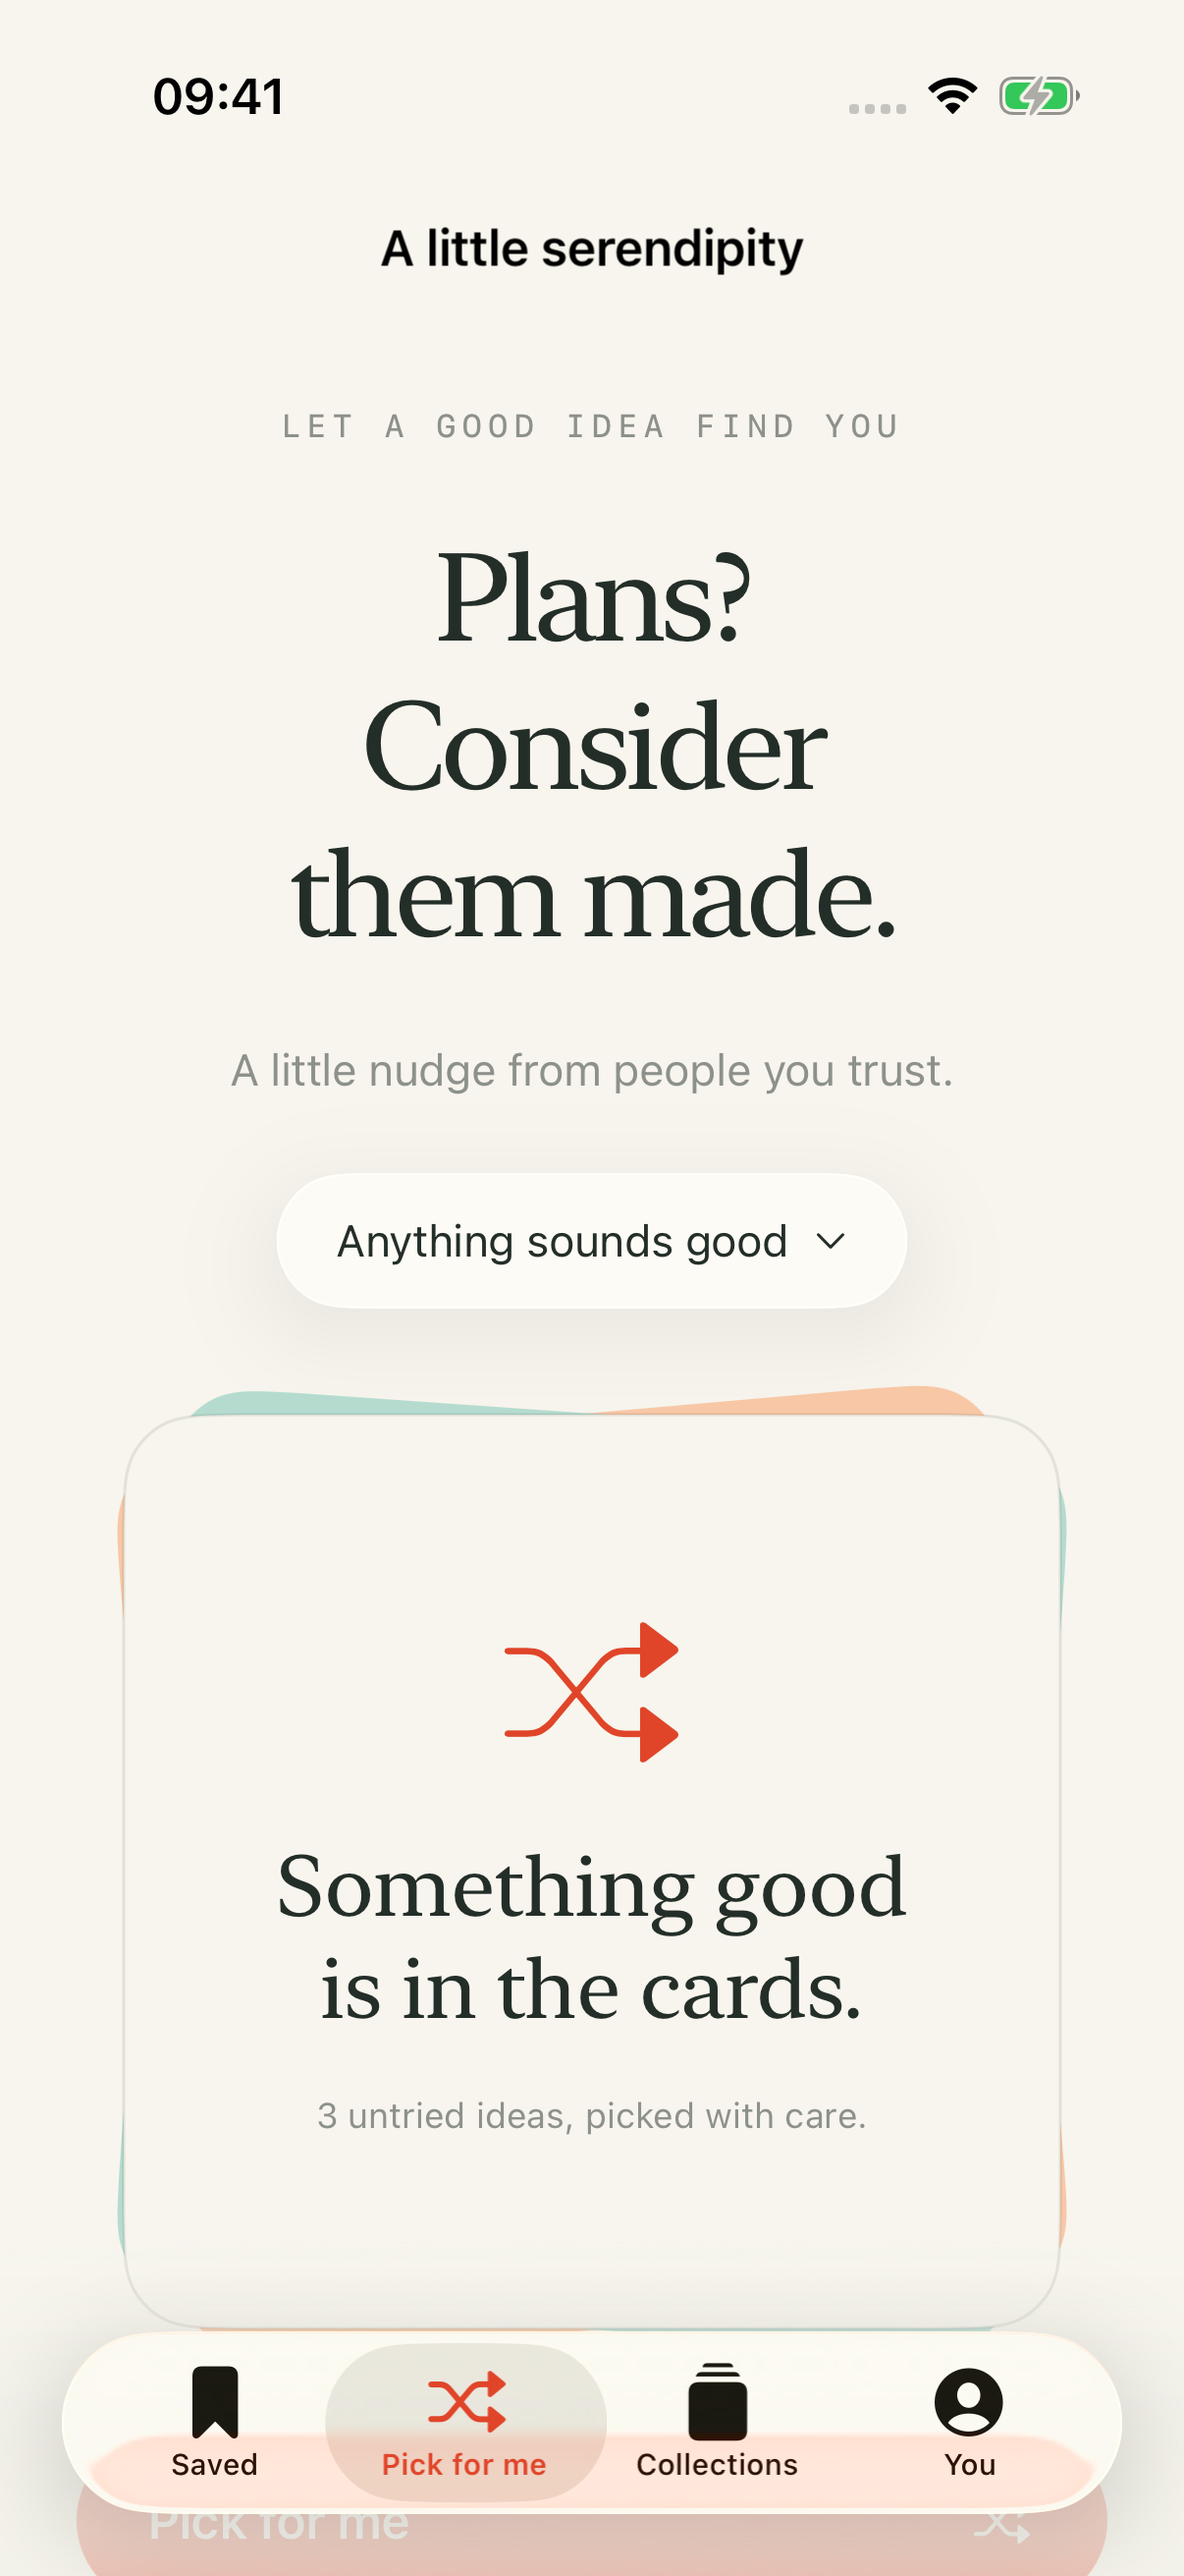
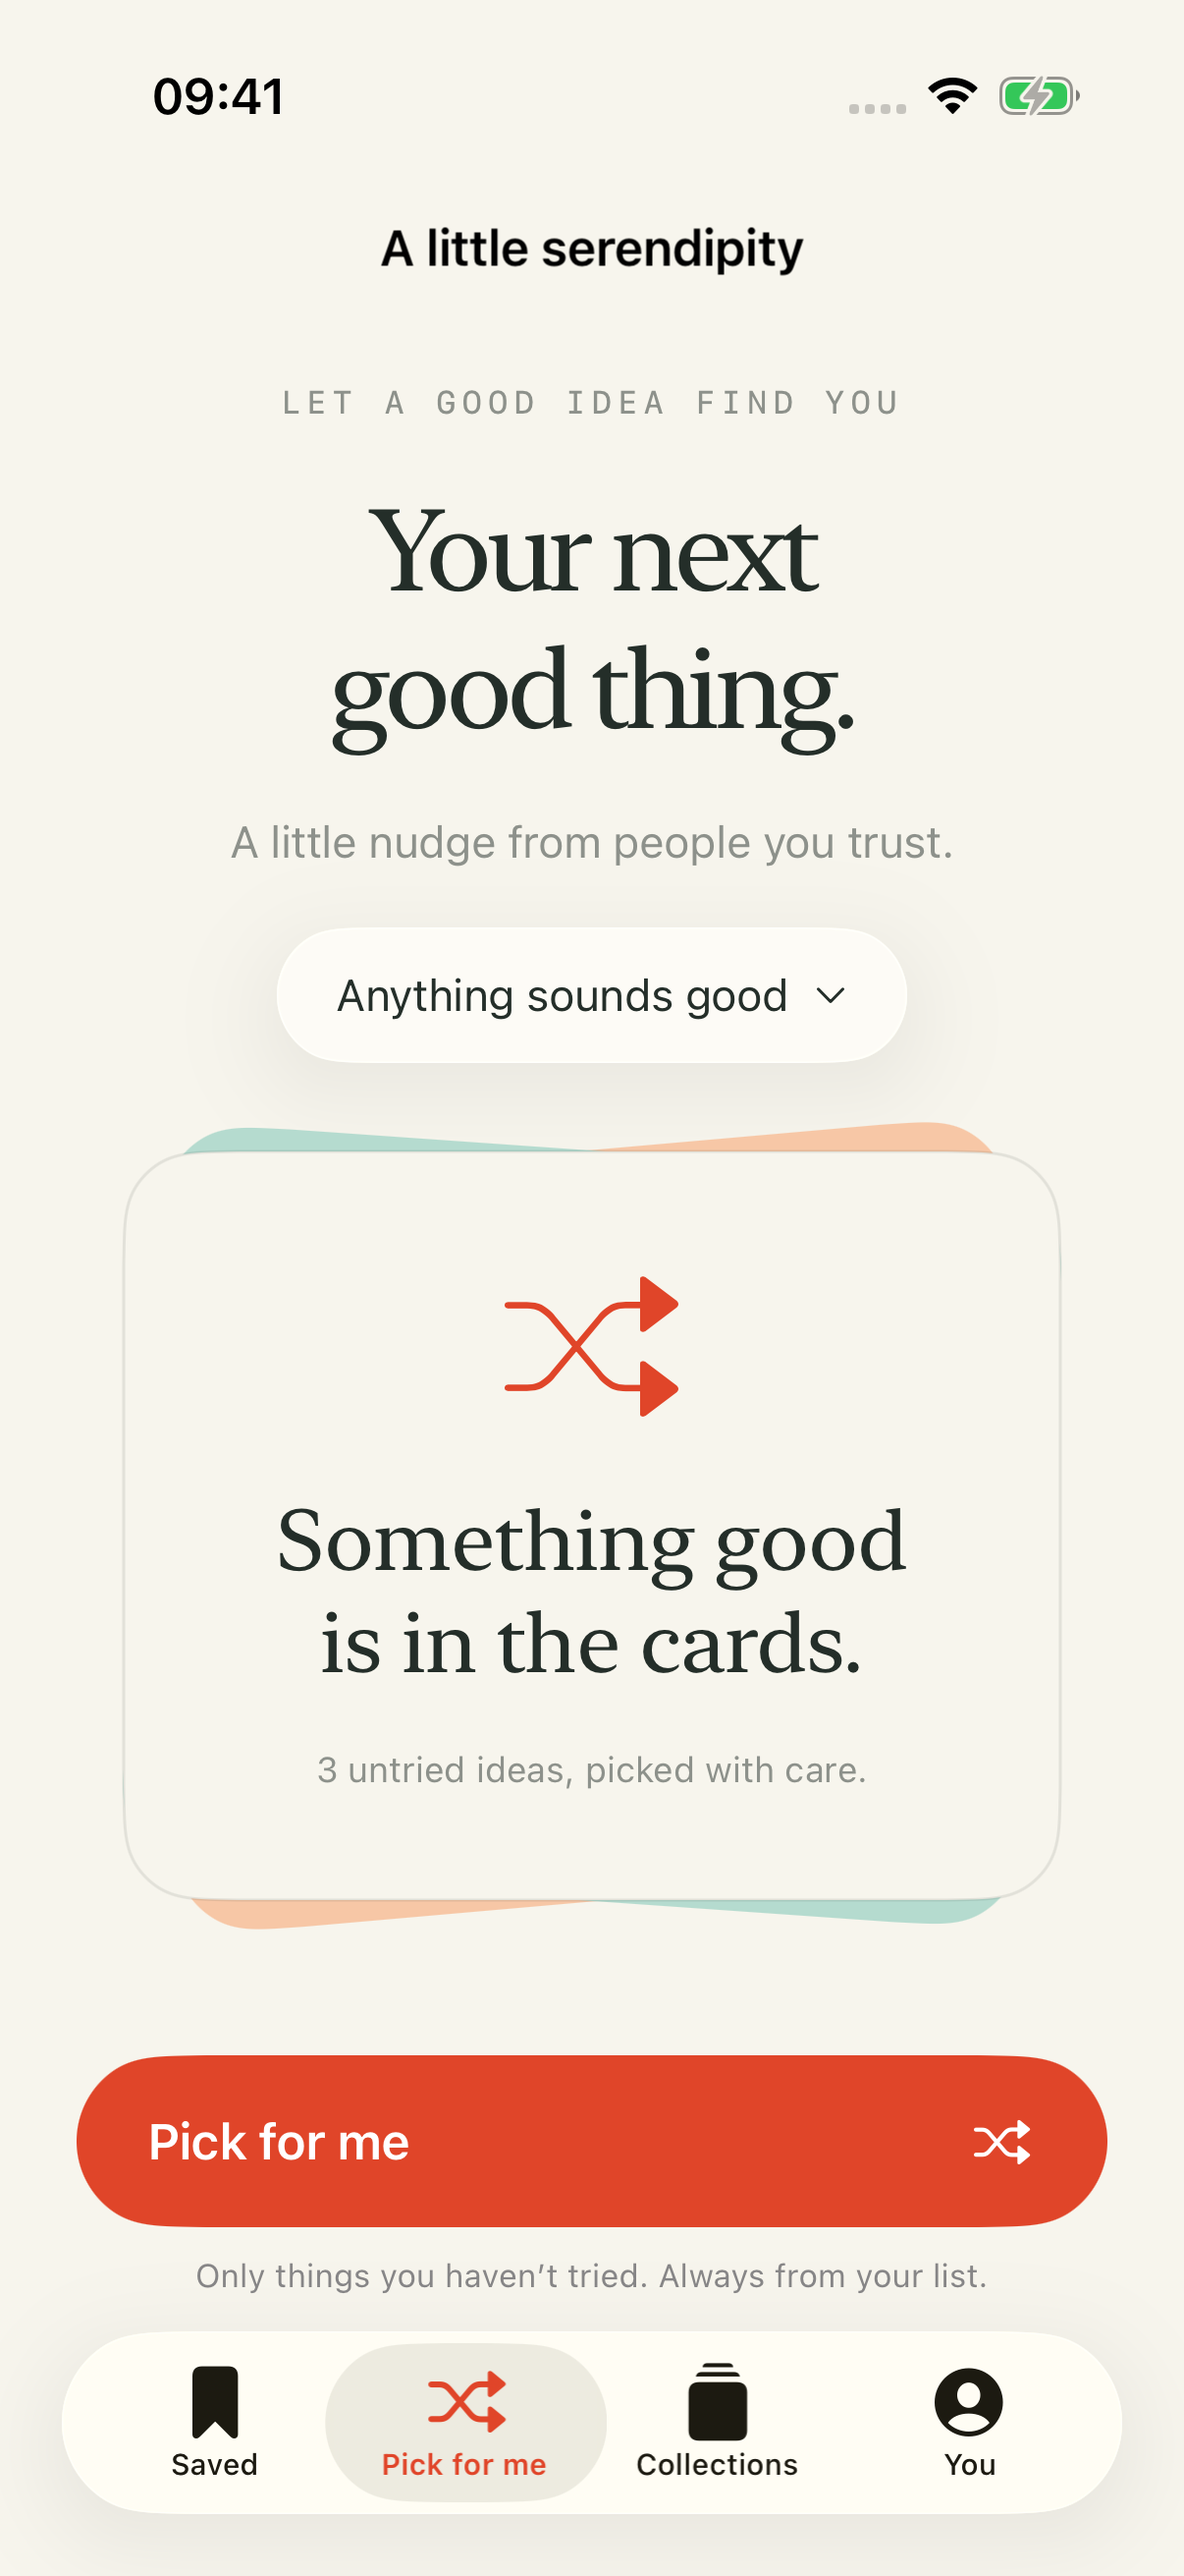
Polish picker layout evidence and final release configuration

diff --git a/WhatWasThatUITests/JourneyTests.swift b/WhatWasThatUITests/JourneyTests.swift
@@ -36,7 +36,7 @@ final class JourneyTests: XCTestCase {
         app.tabBars.buttons["Pick for me"].tap(); app.buttons["shufflePick"].tap()
         XCTAssertTrue(app.buttons["shufflePick"].waitForExistence(timeout: 5))
     }
-    @MainActor func testDetailTriedAndScreenshots() {
+    @MainActor func testRecommendationDetailsSharingAndPinnedPicker() {
         let app = XCUIApplication()
         app.launchArguments = ["--screenshots"]
         app.launch()
@@ -58,7 +58,7 @@ final class JourneyTests: XCTestCase {
         app.staticTexts["A slow weekend"].tap()
         XCTAssertTrue(app.buttons["shareCollection"].waitForExistence(timeout: 5))
         app.buttons["shareCollection"].tap()
-        XCTAssertTrue(app.staticTexts["Save to Files"].waitForExistence(timeout: 5))
+        XCTAssertTrue(app.otherElements["ActivityListView"].waitForExistence(timeout: 5))
     }
 
     @MainActor func testWelcomeScreenshot() {

diff --git a/scripts/generate_project.py b/scripts/generate_project.py
@@ -71,7 +71,7 @@ for target in ['WhatWasThat', 'WhatWasThatWidgets', 'WhatWasThatTests', 'WhatWas
         if team:
             values['DEVELOPMENT_TEAM'] = team
         if is_app or is_extension:
-            values.update({'MARKETING_VERSION': '1.0', 'CURRENT_PROJECT_VERSION': '1'})
+            values.update({'MARKETING_VERSION': '1.0', 'CURRENT_PROJECT_VERSION': '2'})
         if target in ['WhatWasThat', 'WhatWasThatWidgets']:
             values.update({'WWT_APP_GROUP': app_group, 'CODE_SIGN_ENTITLEMENTS': target + '/' + target + '.entitlements'})
         if is_extension:
@@ -81,12 +81,12 @@ for target in ['WhatWasThat', 'WhatWasThatWidgets', 'WhatWasThatTests', 'WhatWas
                 'ASSETCATALOG_COMPILER_APPICON_NAME': 'AppIcon',
                 'INFOPLIST_FILE': 'WhatWasThat/Info.plist',
                 'INFOPLIST_KEY_CFBundleDisplayName': '"What Was That?"',
-                'INFOPLIST_KEY_LSApplicationCategoryType': '"public.app-category.education"',
+                'INFOPLIST_KEY_LSApplicationCategoryType': '"public.app-category.lifestyle"',
                 'INFOPLIST_KEY_UIApplicationSceneManifest_Generation': 'YES',
                 'INFOPLIST_KEY_UILaunchScreen_Generation': 'YES',
                 'INFOPLIST_KEY_UISupportedInterfaceOrientations': '"UIInterfaceOrientationPortrait"',
-                'MARKETING_VERSION': '1.0', 'CURRENT_PROJECT_VERSION': '1',
-                'ENABLE_PREVIEWS': 'YES', 'OTHER_LDFLAGS': '"-lsqlite3"',
+                'MARKETING_VERSION': '1.0', 'CURRENT_PROJECT_VERSION': '2',
+                'ENABLE_PREVIEWS': 'YES',
             })
         elif target == 'WhatWasThatTests':
             values.update({'TEST_HOST': '"$(BUILT_PRODUCTS_DIR)/WhatWasThat.app/$(BUNDLE_EXECUTABLE_FOLDER_PATH)/WhatWasThat"', 'BUNDLE_LOADER': '"$(TEST_HOST)"'})

diff --git a/evidence/VALIDATION.md b/evidence/VALIDATION.md
@@ -8,12 +8,14 @@ Validation performed on 11 September 2026 with Xcode 26.0.
 - All 10 tests passed: 6 unit tests and 4 UI tests (`verified-tests.xcresult`).
 - Model tests cover atomic persistence, filtering, idempotent collection imports, unsafe URL rejection, edit/delete persistence, and corrupt-file protection.
 - UI tests exercise onboarding, save/search/relaunch, choosing an untried suggestion, collection creation, tried status, and the native collection share sheet.
+- The final picker layout and share sheet also passed a focused UI run with freshly built test binaries (`whatwasthat-layout-verified.xcresult`).
 - Actual simulator screenshots are checked in under `site/assets/`.
 - Signed app and WidgetKit extension build successfully with the configured development team. Both targets carry the same App Group entitlement.
 - The app was installed on the connected physical iPhone 17 Pro running iOS 27. The initial launch request was blocked by the phone's lock screen. Physical interaction and widget refresh verification remain pending until it is unlocked.
 
 ## Website
 
+- GitHub Pages deployment completed successfully and the live site returned HTTP 200. The live demo, images, and privacy link were also checked.
 - Desktop visual review and mobile layouts at 390 px and 320 px.
 - No horizontal overflow at the checked mobile widths.
 - Category-specific demo picker produces the matching category.
